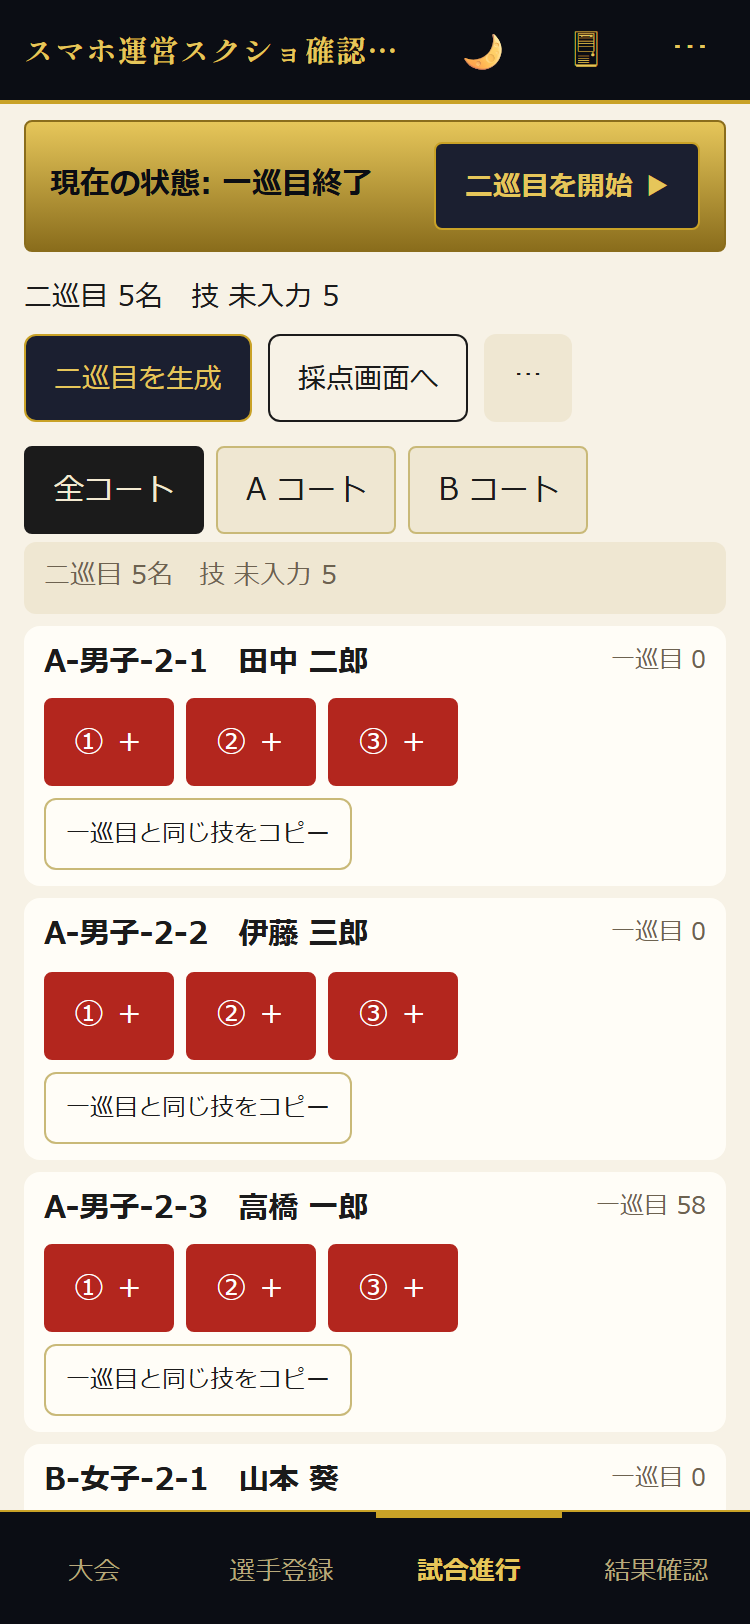
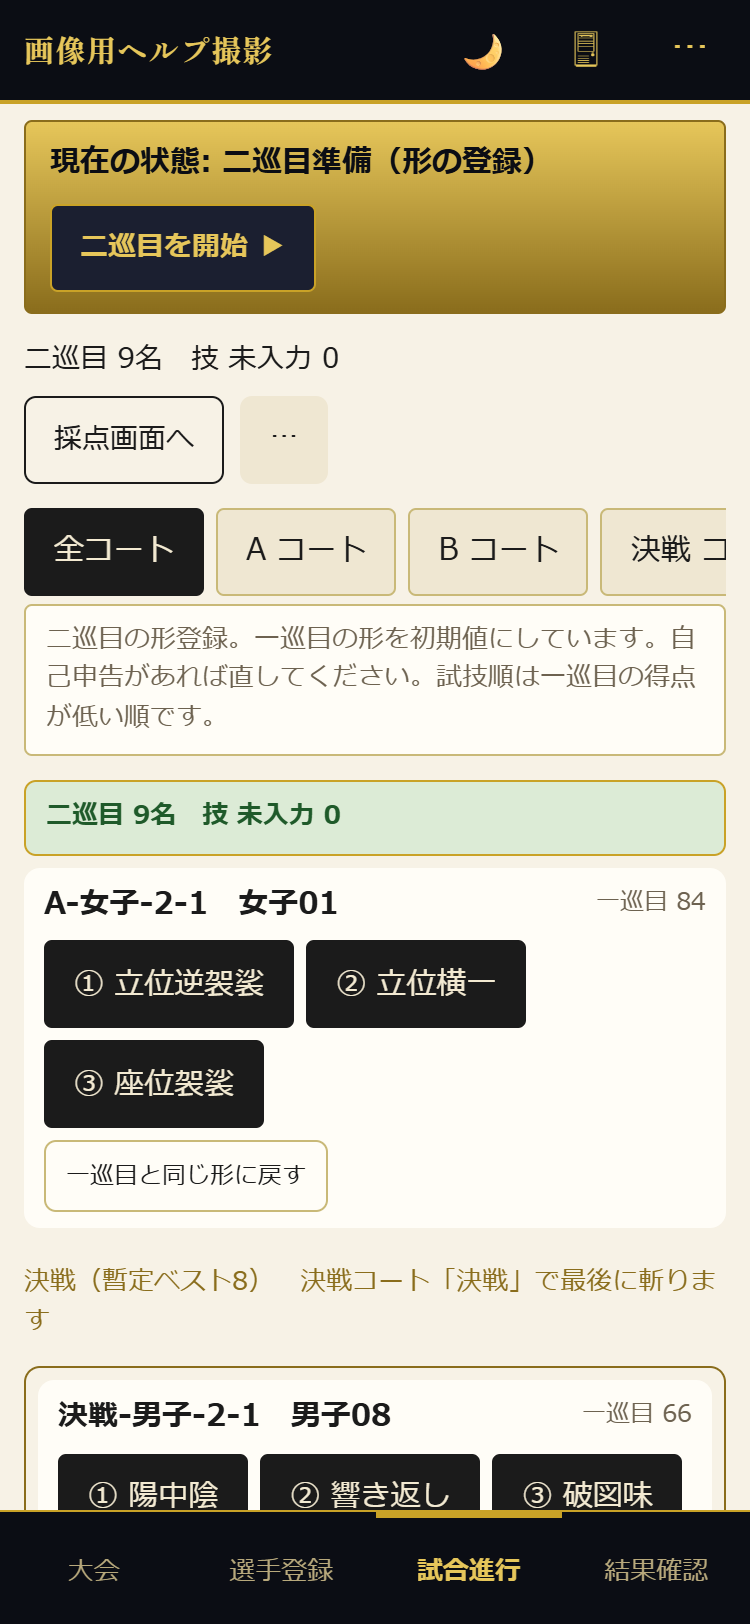
docs: ヘルプの試合進行タブ画像 2 枚を二巡目準備（形の登録）の新 UI で撮り直す

diff --git a/help.html b/help.html
@@ -551,8 +551,8 @@
     <p>コートが決まっていない選手の二巡目は作れません。選手登録タブでコートを設定してから、あらためて確かめてください。</p>
 
     <figure class="shot-mobile">
-      <img src="help/img/admin_round.png" loading="lazy" alt="運営画面の試合進行タブ。一巡目の採点済み数、「二巡目を生成」「採点画面へ」、コート絞り込み、二巡目の選手と技の枠。">
-      <figcaption>試合進行タブ。<span class="ui">二巡目 5名　技 未入力 5</span> の行で、技がまだの人数が分かります。行の右上の <span class="ui">一巡目 58</span> はその選手の一巡目の得点です。</figcaption>
+      <img src="help/img/admin_round.png" loading="lazy" alt="運営画面の試合進行タブ。現在の状態「二巡目準備（形の登録）」、二巡目の形登録の注記、採点画面へ、コート絞り込み、二巡目の選手と技の枠、決戦（暫定ベスト8）の区画。">
+      <figcaption>試合進行タブ。<span class="ui">二巡目準備（形の登録）</span> のときだけ技を直せます。<span class="ui">二巡目 9名　技 未入力 0</span> の行で、技がまだの人数が分かります。行の右上の <span class="ui">一巡目 84</span> はその選手の一巡目の得点です。下は <span class="ui">決戦（暫定ベスト8）</span> の区画です。</figcaption>
     </figure>
 
     <figure class="shot-mobile">
